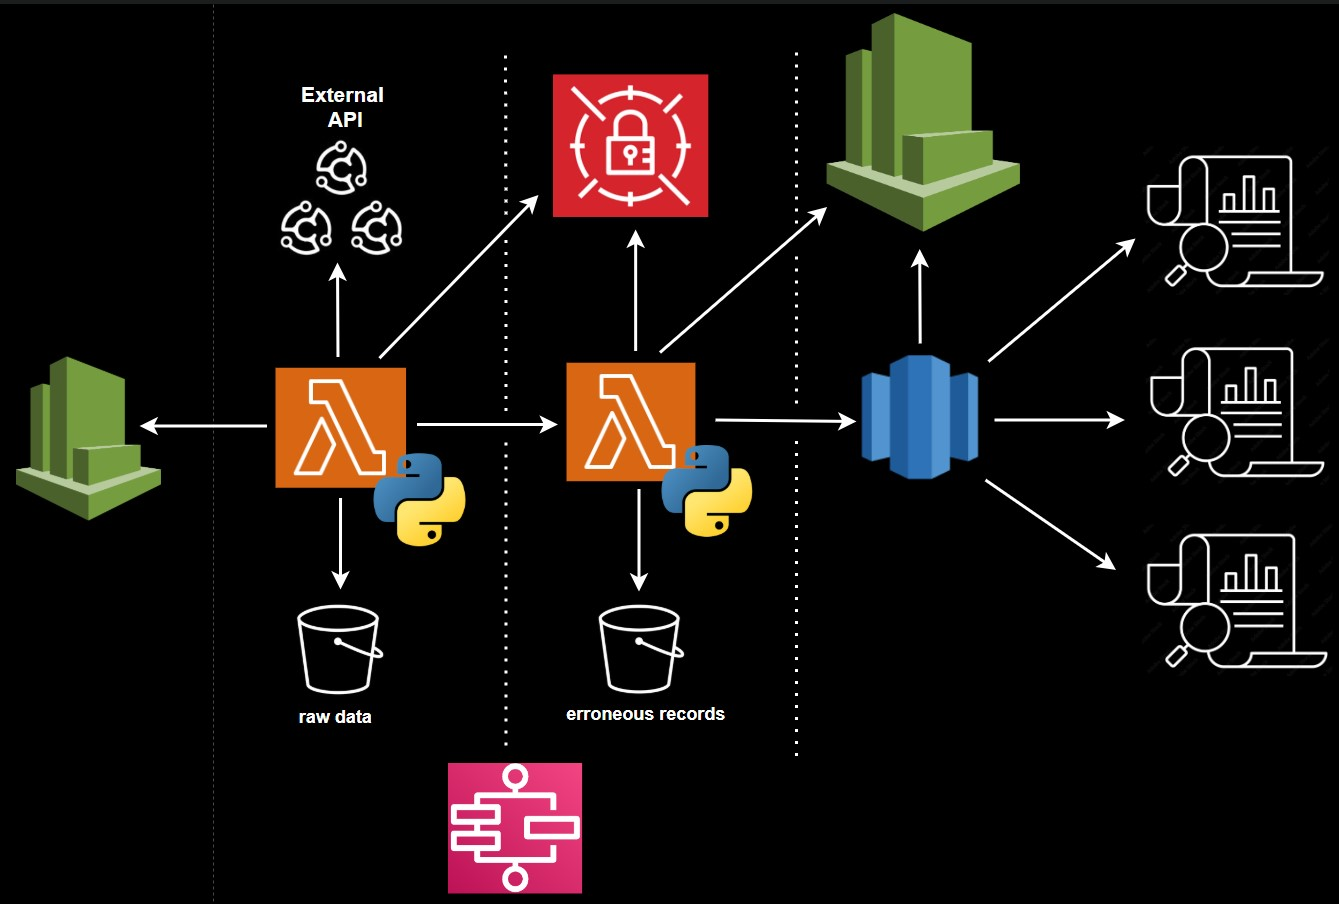
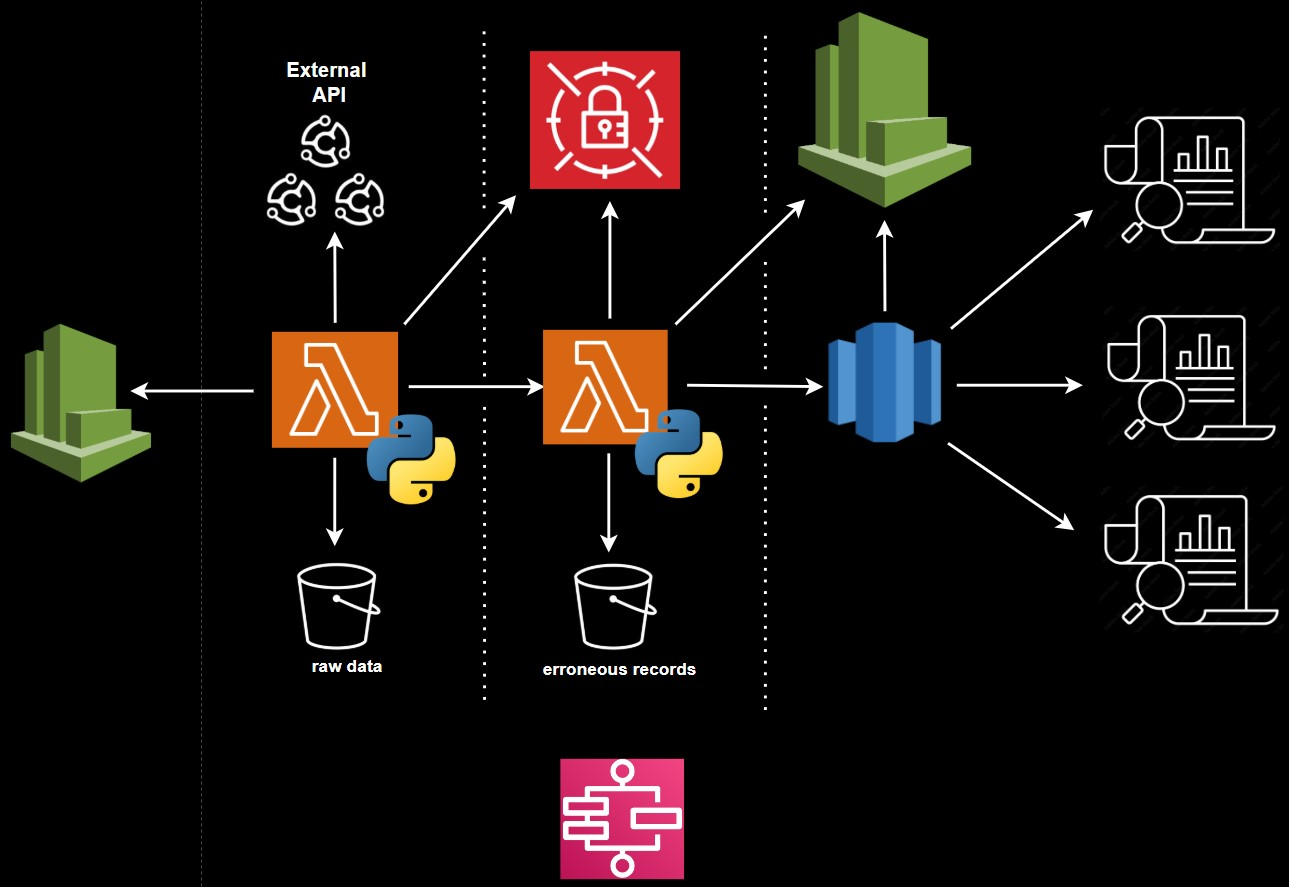
Added aws diagram

diff --git a/README.md b/README.md
@@ -116,5 +116,5 @@ python extract_process_load.py --source_date 2025-05-01 --window 7 --shift 0
 
 ## AWS Architecure
 <div align="center">
-    <img src="aws_architecture.jpg">
+    <img src="aws_architecture.jpg" width="70%">
 </div>
